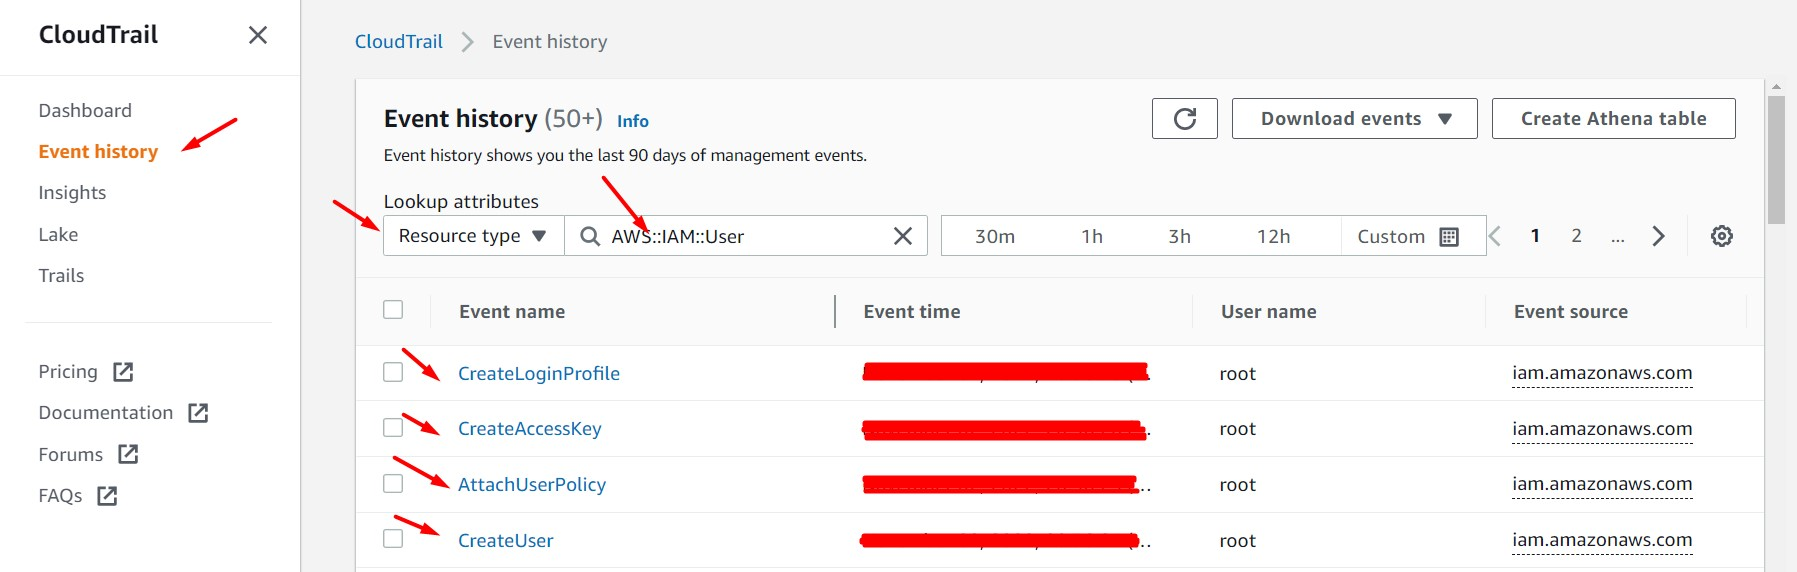
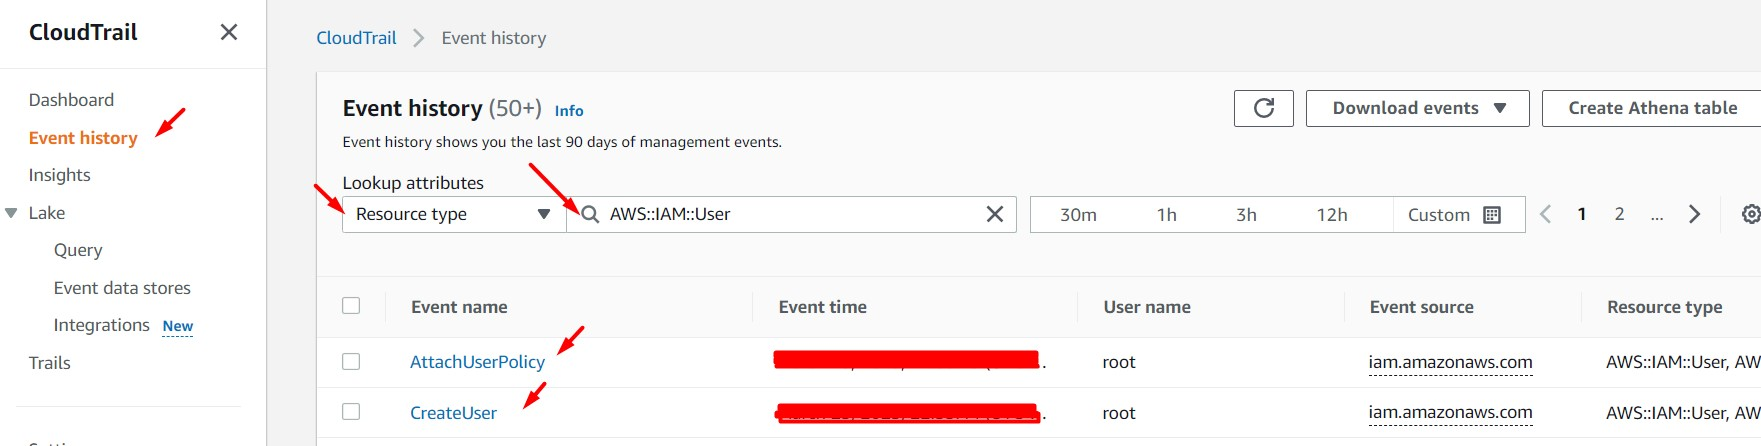
Update Lab-50

diff --git a/Lab-50/README-Lab50.md b/Lab-50/README-Lab50.md
@@ -24,13 +24,10 @@
 <br>
 
 
-1. Ingresamos al servicio "IAM" opción "User" y visualizamos la lista de usuarios actuales. Generamos un nuevo usuario IAM "aws-architectassociate" con las siguientes características:
+1. Ingresamos al servicio "IAM" opción "User" y creamos el usuario IAM "aws-architectassociate" con las siguientes características:
+
     - User name: aws-architectassociate
-    - Select AWS credential type:
-        - Access key - Programmatic access
-        - Password - AWS Management Console access
-    - Console password: Autogenerated password
-    - Require password reset: disable
+    - Provide user access to the AWS Management Console - optional: No
     - Set permissions: Attach existing policies directly
         - Policy name: AdministratorAccess
 
@@ -40,7 +37,7 @@
 
 <br>
 
-2. Ingresamos al servicio CloudTrail. Desde la opción "Event History" observaremos diferentes tipos de eventos. Realizamos un filtro por: "Resource type: AWS:IAM:User". Validamos los siguientes eventos (para que los eventos del usuario creado anteriormente puedan listarse se deberá esperar de 2 a 3 minutos antes de realizar esta acción)
+2. Ingresamos al servicio CloudTrail. Desde la opción "Event History" observaremos diferentes tipos de eventos ("AttachUserPolicy" y "CreateUser"). Realizamos un filtro por: "Resource type: AWS:IAM:User". Validamos los siguientes eventos (para que los eventos del usuario creado anteriormente puedan listarse se deberá esperar de 2 a 3 minutos antes de realizar esta acción)
 
 <br>
 
@@ -158,10 +155,12 @@ def publish_message(message):
         MessageStructure='json'
     )
     print(response_sns)
-
 ```
 
+<br>
+
 7. Desde el servicio IAM, buscamos el rol asociado a la Función Lambda previamente creada y le asociamos los siguientes permisos:
+
     - IAMFullAccess
     - AmazonSNSFullAccess
 
@@ -178,6 +177,7 @@ def publish_message(message):
 8. Ingresamos al servicio "EventBridge" y damos clic en la opción "Rules - Create Rules". Seleccionamos/ingresamos las siguientes opciones:
 
     - Name: AttachUserPolicy
+    - Event Bus: default
     - Rule type: Rule with an event pattern
     - Event source: AWS events or EventBridge partner events
     - Event pattern
@@ -213,12 +213,9 @@ def publish_message(message):
 <br>
 
 9. Desde el servicio IAM creamos un usuario con las siguientes características:
+
     - User name: aws-architectassociate-2
-    - Select AWS credential type:
-        - Access key - Programmatic access
-        - Password - AWS Management Console access
-    - Console password: Autogenerated password
-    - Require password reset: disable
+    - Provide user access to the AWS Management Console - optional: No
     - Set permissions: Attach existing policies directly
         - Policy name: AdministratorAccess
 
@@ -228,9 +225,10 @@ def publish_message(message):
 
 <br>
 
-10. Realizaremos los siguientes pasos de validación:
-    - Recepción de correo electrónico
-    - Análisis de políticas asociadas al usuario "ws-architectassociate-2". Se eliminó la política "AdministratorAccess" asociada al usuario
+10. Realizaremos los siguientes pasos de validación en el usuario IAM "aws-architectassociate-2":
+
+    - Se recepcionó un correo electrónico
+    - Análisis de la política asociadas al usuario "aws-architectassociate-2". Se valida que se eliminó la política "AdministratorAccess" asociada al usuario
     - Revisión de los logs generados por la Función Lambda
 
 <br>
@@ -248,21 +246,19 @@ def publish_message(message):
 <br>
 
 11. Desde el servicio IAM creamos un usuario con las siguientes características:
+
     - User name: aws-architectassociate-3
-    - Select AWS credential type:
-        - Access key - Programmatic access
-        - Password - AWS Management Console access
-    - Console password: Autogenerated password
-    - Require password reset: disable
+    - Provide user access to the AWS Management Console - optional: No
     - Set permissions: Attach existing policies directly
-        - Policy name: ReadOnlyAccess
+        - Policy name: ReadOnlyAccess (Buscar está política en la última hoja de la lista)
+
 
 <br>
 
 
-12. Realizaremos los siguientes pasos de validación:
-    - No existe Recepción de correo electrónico
-    - Análisis de políticas asociadas al usuario "ws-architectassociate-3". Se mantiene la política "ReadOnlyAccess"
+12. Realizaremos los siguientes pasos de validación en el usuario IAM "aws-architectassociate-3":
+    - No se recepcionó algún correo electrónico
+    - Análisis de políticas asociadas al usuario "aws-architectassociate-3". Se mantiene la política "ReadOnlyAccess" en el usuario
     - Revisión de los logs generados por la Función Lambda
 
 <br>
@@ -270,3 +266,15 @@ def publish_message(message):
 <img src="images/Lab50_15.jpg">
 
 <br>
+
+---
+
+### Eliminación de recursos
+
+```bash
+#Eliminar IAM Users "aws-architectassociate", "aws-architectassociate-2" y "aws-architectassociate-3" en "IAM"
+#Eliminar Trail en "CloudTrail"
+#Eliminar función Lambda "AttachUserPolicy" en "Lambda"
+#Eliminar tópico en "SNS"
+#Eliminar Event Rules "AttachUserPolicy" en "Event Bridge" 
+```
